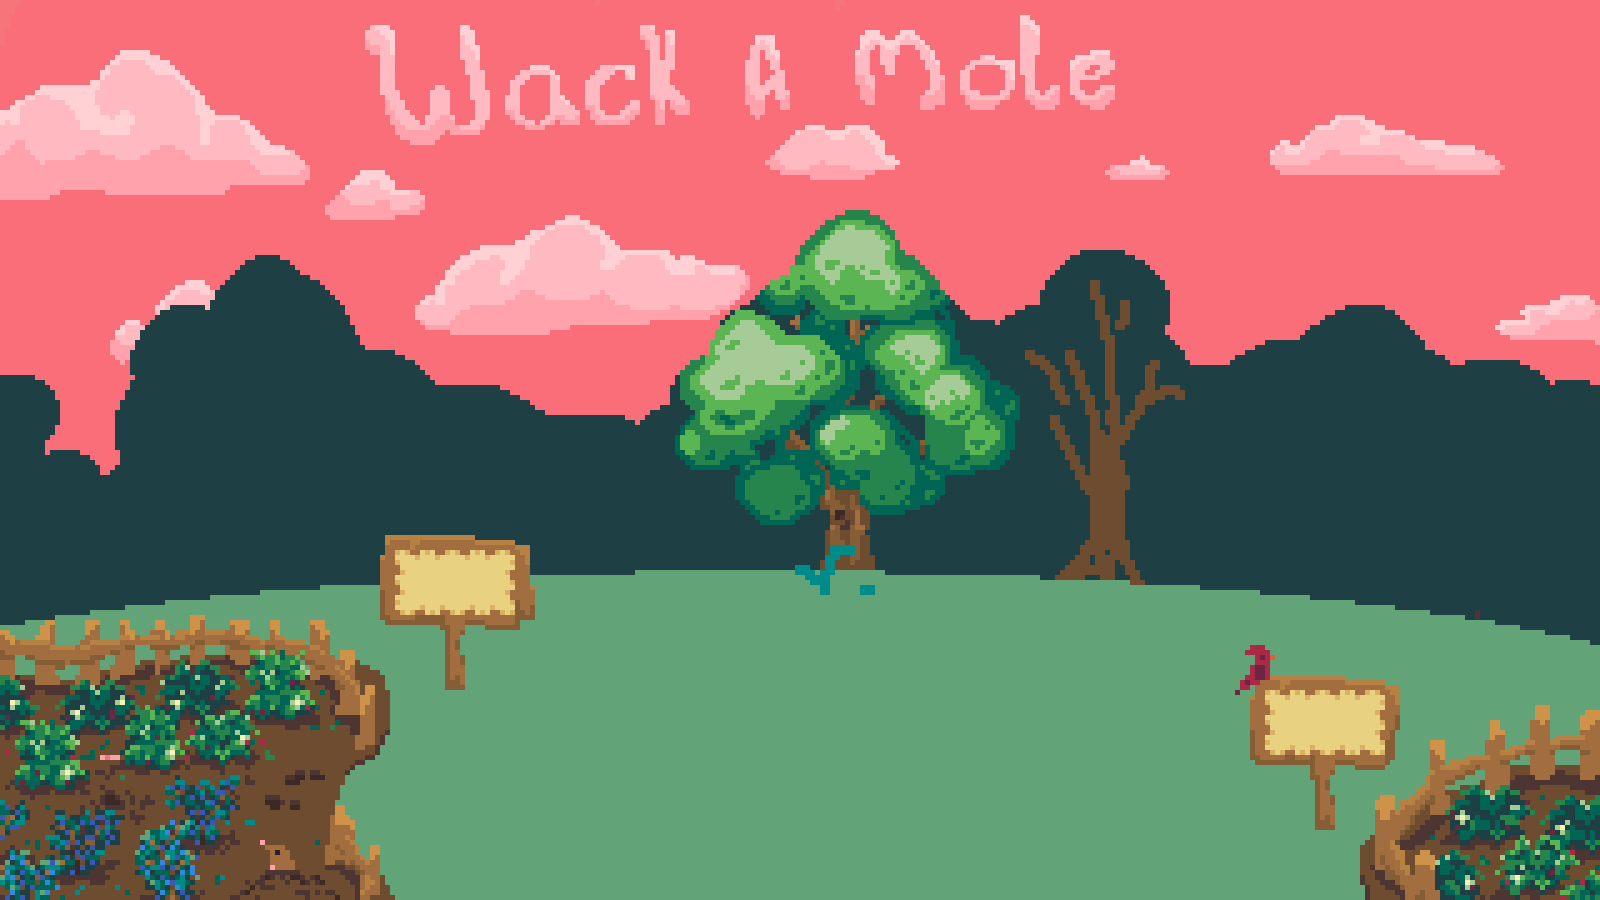
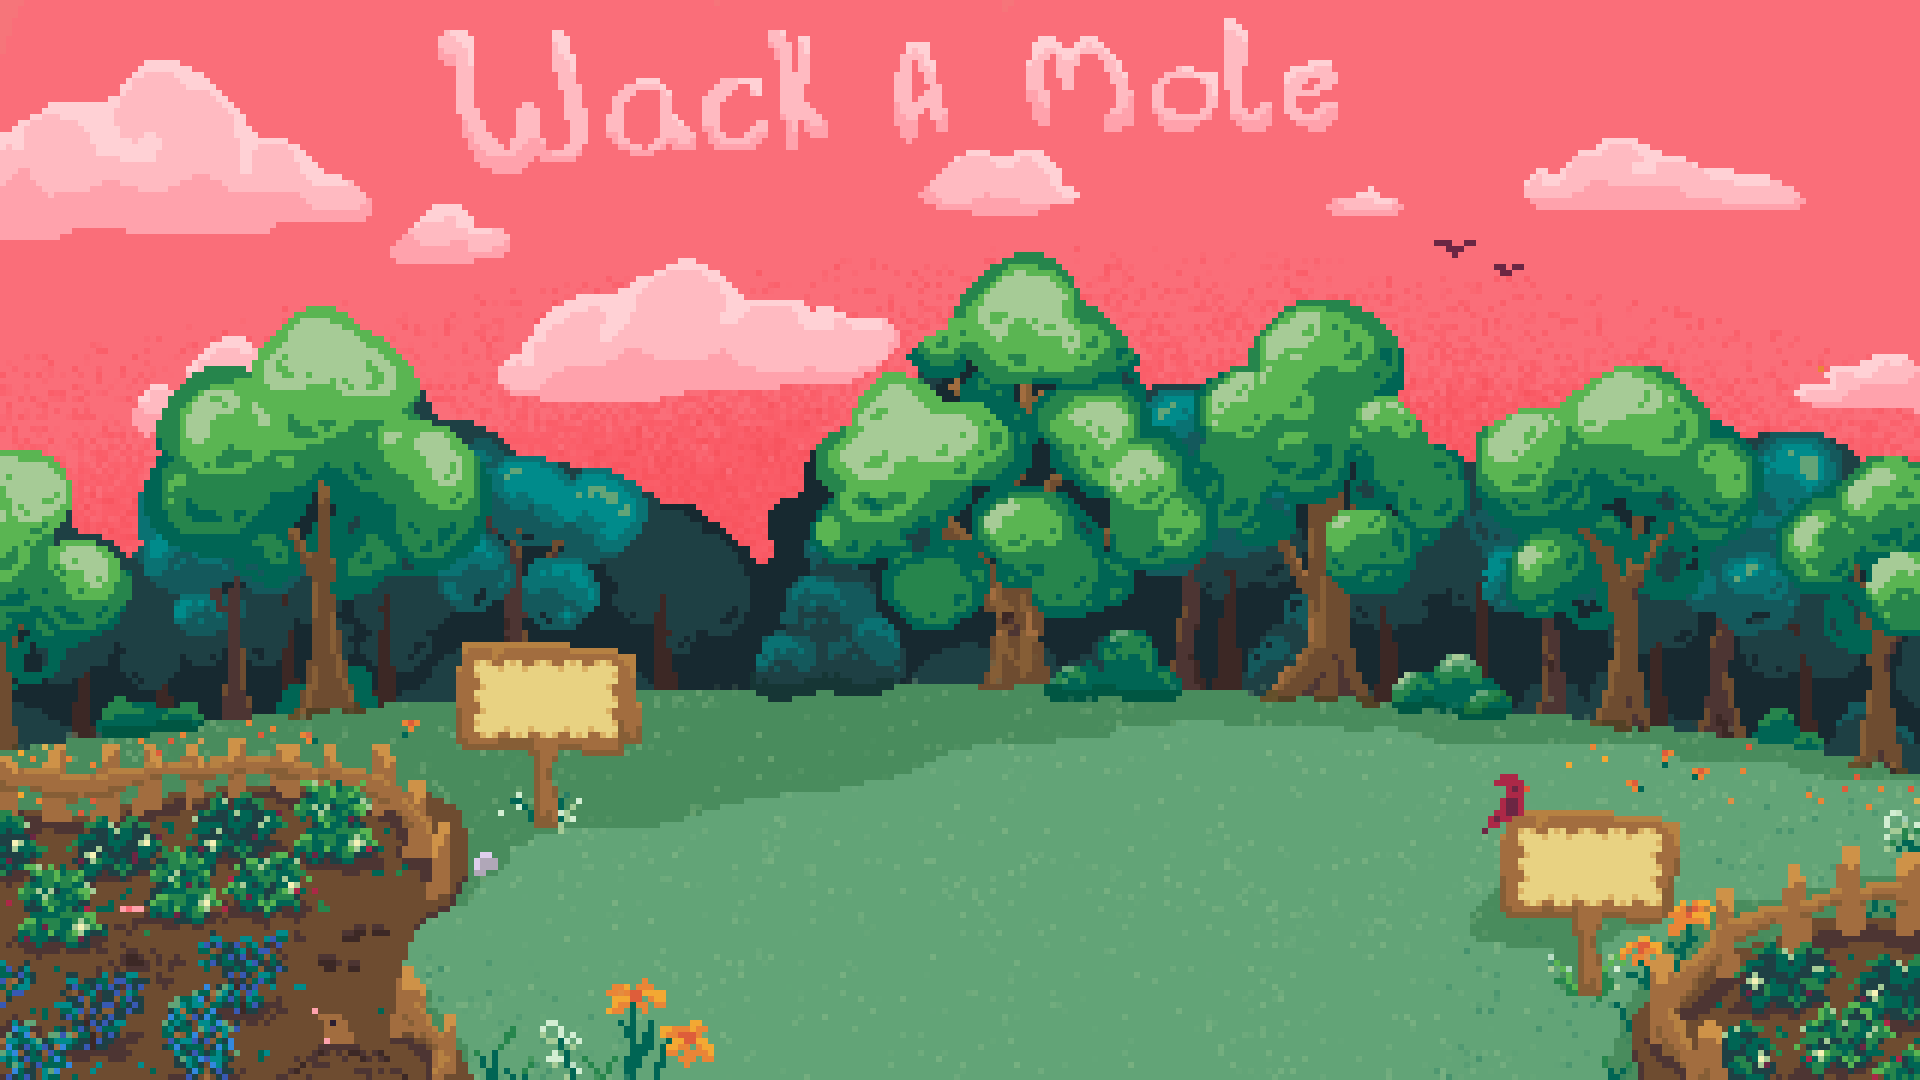
Code that could scale buttons for the most part -- before I scrapped it for ease of planning

diff --git a/WAM1.py b/WAM1.py
@@ -35,12 +35,13 @@ red = (255,0,0)
 
 # set up the display
 pygame.init()
-# a list in the format [(x,y)]
-ratio_sizes = [(1024, 576),(1280,720),(1504,846),(1920,1080)]
+
 screenvar = pygame.display.get_desktop_sizes()
+
 # for some reason this needs to be called here or the screen doesnt resize properly
 screen = pygame.display.set_mode((screenvar[0][0], screenvar[0][1]), FULLSCREEN)
 # this suto sets the game window to be the closest resolution
+ratio_sizes = [(1024, 576),(1280,720),(1504,846),(1920,1080)]
 for item in ratio_sizes:
     if screenvar[0][0] >= item[0] and screenvar[0][1] >= item[1]:
         GAME_SIZE = item
@@ -48,8 +49,7 @@ for item in ratio_sizes:
 GEN_COORDS = [((screenvar[0][0]-GAME_SIZE[0])/2), ((screenvar[0][1]-GAME_SIZE[1])/2)]
 
 #screen = pygame.display.set_mode(GAME_SIZE, FULLSCREEN) may not need this
-# loads in image and scales it to screen size
-BG = transform.scale(pygame.image.load("BG_Menu.PNG").convert(),GAME_SIZE)
+
 pygame.display.set_caption("Whack a Mole!")
 
 MOLE = transform.scale(pygame.image.load("Sprites/temp_hole.PNG").convert_alpha(),(72,72))
@@ -62,6 +62,8 @@ headerfont.set_bold(True)
 def main_menu(): #the main menu screen
     while True:
         screen.fill(black)
+        # loads in image and scales it to screen size
+        BG = transform.scale(pygame.image.load("BG_Menu.PNG").convert(),GAME_SIZE)
         screen.blit(BG, (GEN_COORDS[0], GEN_COORDS[1])) 
         #BG.get_rect(center = screen.get_rect().center) insted of coords works to center window
 
@@ -80,8 +82,11 @@ def main_menu(): #the main menu screen
         quit_button = Button(None, pos=(1059, 576), 
                              base_screen_info=(1280, 720), game_size=GAME_SIZE, gen_coords=GEN_COORDS,
                              text_input="Quit", font=buttonfont, base_color=darkbrown, hovering_color=pink)
+        settings_button = Button(transform.scale(pygame.image.load("Sprites/gear.PNG").convert_alpha(),(50,50)), pos=(1100, 10),
+                                 base_screen_info=(1280, 720), game_size=GAME_SIZE, gen_coords=GEN_COORDS,
+                                 text_input="", font=buttonfont, base_color=white, hovering_color=white)
 
-        for button in [play_button, quit_button]:
+        for button in [play_button, quit_button, settings_button]:
             button.changeColor(mousePos)
             button.update(screen)
 
@@ -196,7 +201,10 @@ def tutorial():
 
 def play():
     while True:
-        screen.fill(white)
+        screen.fill(black)
+        # loads in image and scales it to screen size
+        BG = transform.scale(pygame.image.load("BG_Play.PNG").convert(),GAME_SIZE)
+        screen.blit(BG, (GEN_COORDS[0], GEN_COORDS[1]))
 
         mousePos = pygame.mouse.get_pos()
         mousex = mousePos[0]
